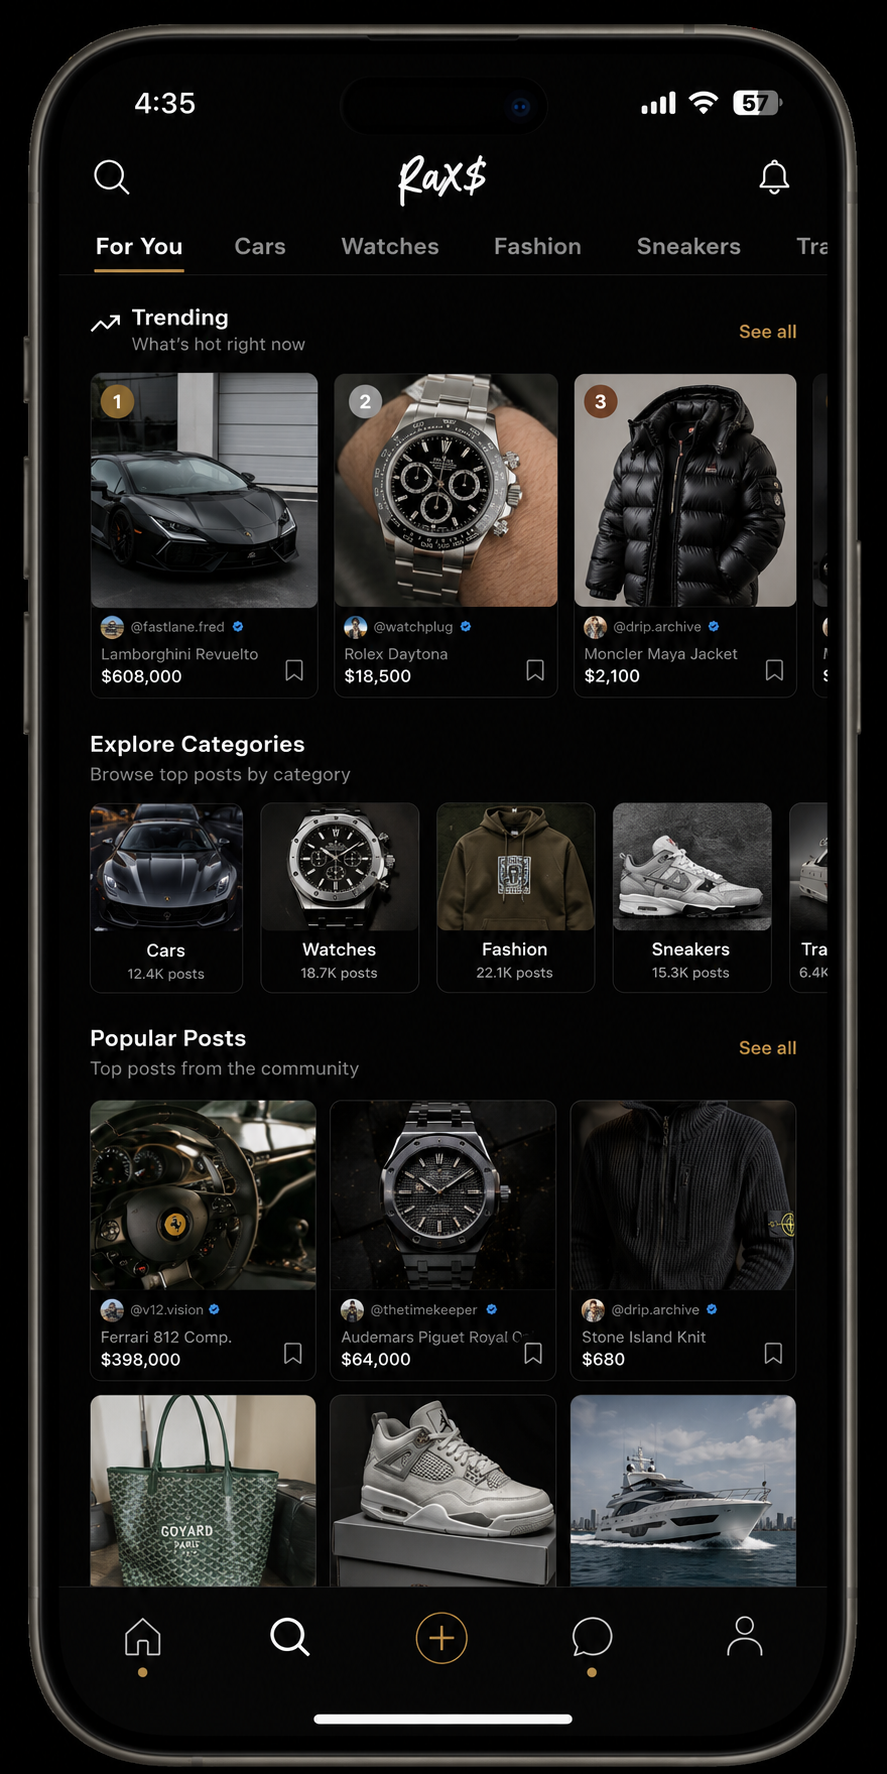
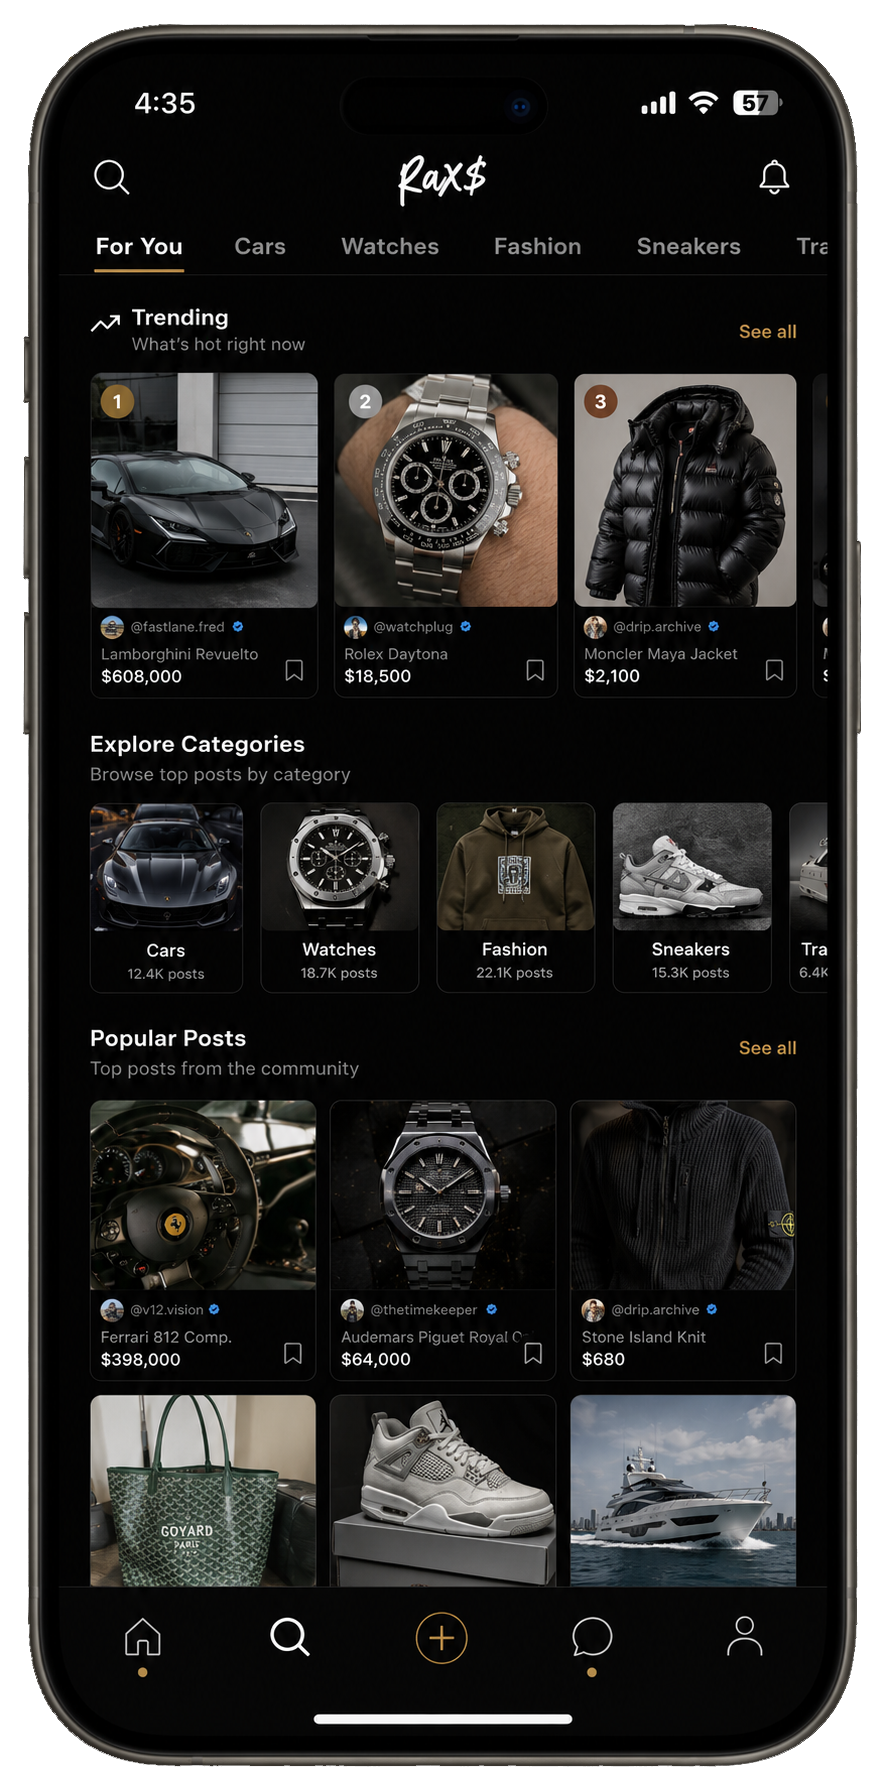
feat: update phone showcase for explore screen layout changes
Updated back phone image and alt text for explore screen. Swapped front phone image and alt text for profile screen.

Changed region(s): [[0.0, 0.0, 1.0, 1.0]]

diff --git a/components/phone-showcase.tsx b/components/phone-showcase.tsx
@@ -8,16 +8,16 @@ export function PhoneShowcase() {
 
       {/* Phones */}
       <div className="relative flex items-center justify-center">
-        {/* Back phone - profile screen, rotated and offset right */}
+        {/* Back phone - explore/discover screen, rotated and offset right */}
+        <img
+          src="/images/phone-feed.png"
+          alt="Raxs app explore feed showing trending watches, cars, and fashion"
+          className="w-[195px] sm:w-[235px] md:w-[270px] lg:w-[290px] xl:w-[320px] h-auto relative z-0 translate-x-[30%] translate-y-[8%] rotate-[9deg] drop-shadow-2xl"
+        />
+        {/* Front phone - profile screen, rotated opposite (solid, covers the back phone) */}
         <img
           src="/images/phone-profile.png"
           alt="Raxs app profile showing verified spend and luxury posts"
-          className="w-[195px] sm:w-[235px] md:w-[270px] lg:w-[290px] xl:w-[320px] h-auto relative z-0 translate-x-[30%] translate-y-[8%] rotate-[9deg] mix-blend-lighten drop-shadow-2xl"
-        />
-        {/* Front phone - feed screen, rotated opposite (solid, no blend so it covers the back phone) */}
-        <img
-          src="/images/phone-feed.png"
-          alt="Raxs app feed showing trending watches, cars, and fashion"
           className="w-[210px] sm:w-[250px] md:w-[290px] lg:w-[315px] xl:w-[345px] h-auto relative z-10 -translate-x-[28%] -translate-y-[2%] -rotate-[5deg] drop-shadow-2xl"
         />
       </div>
